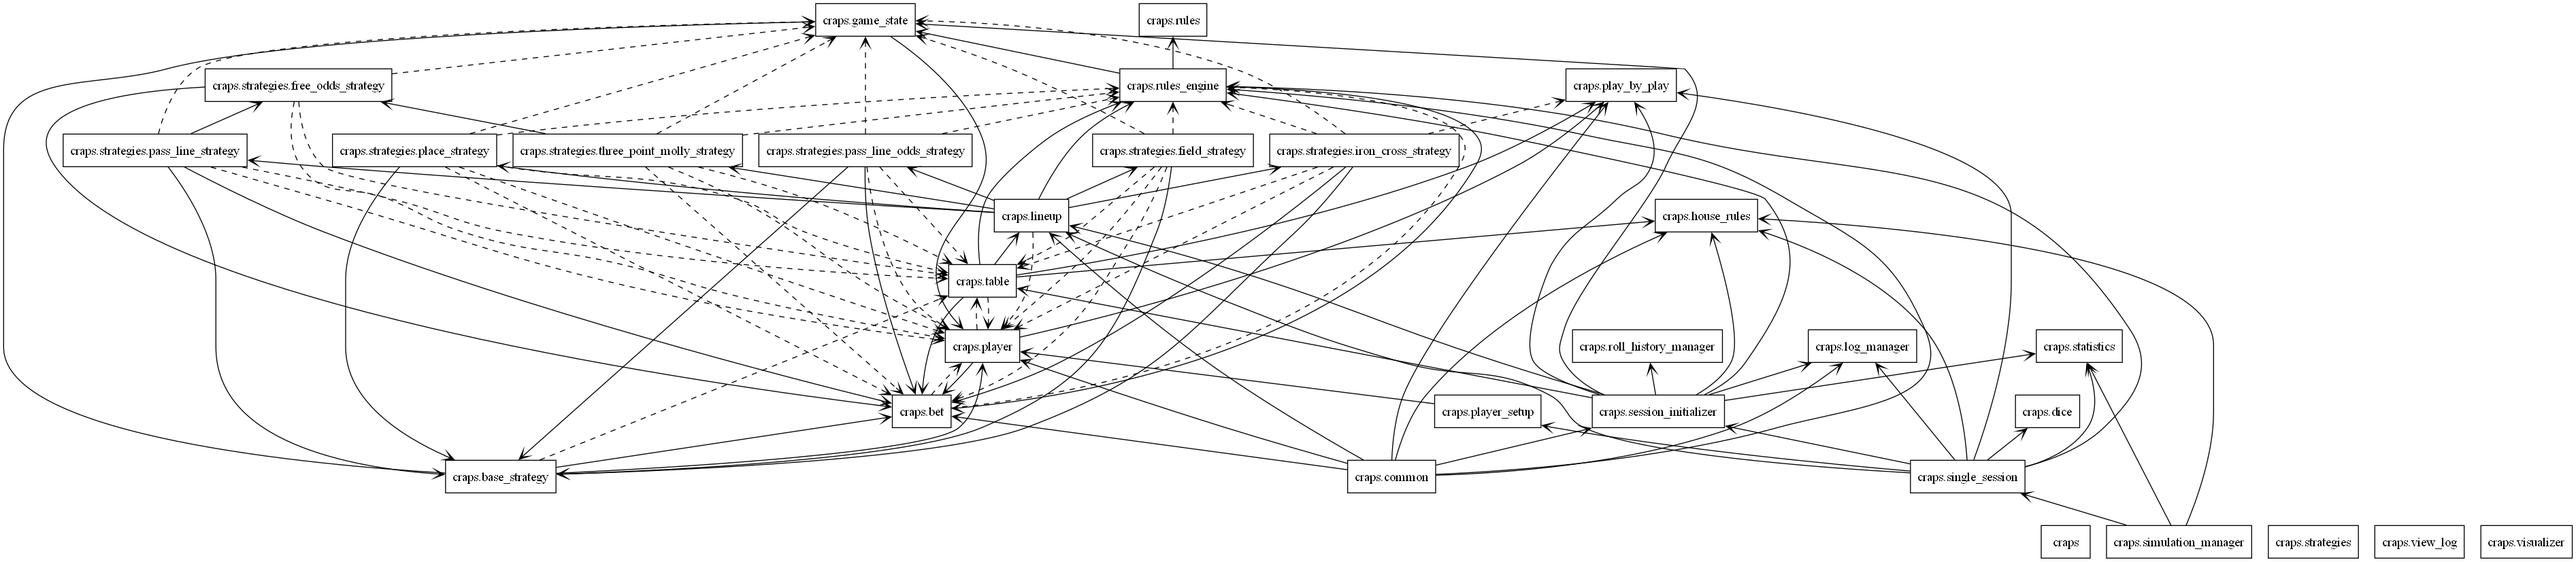
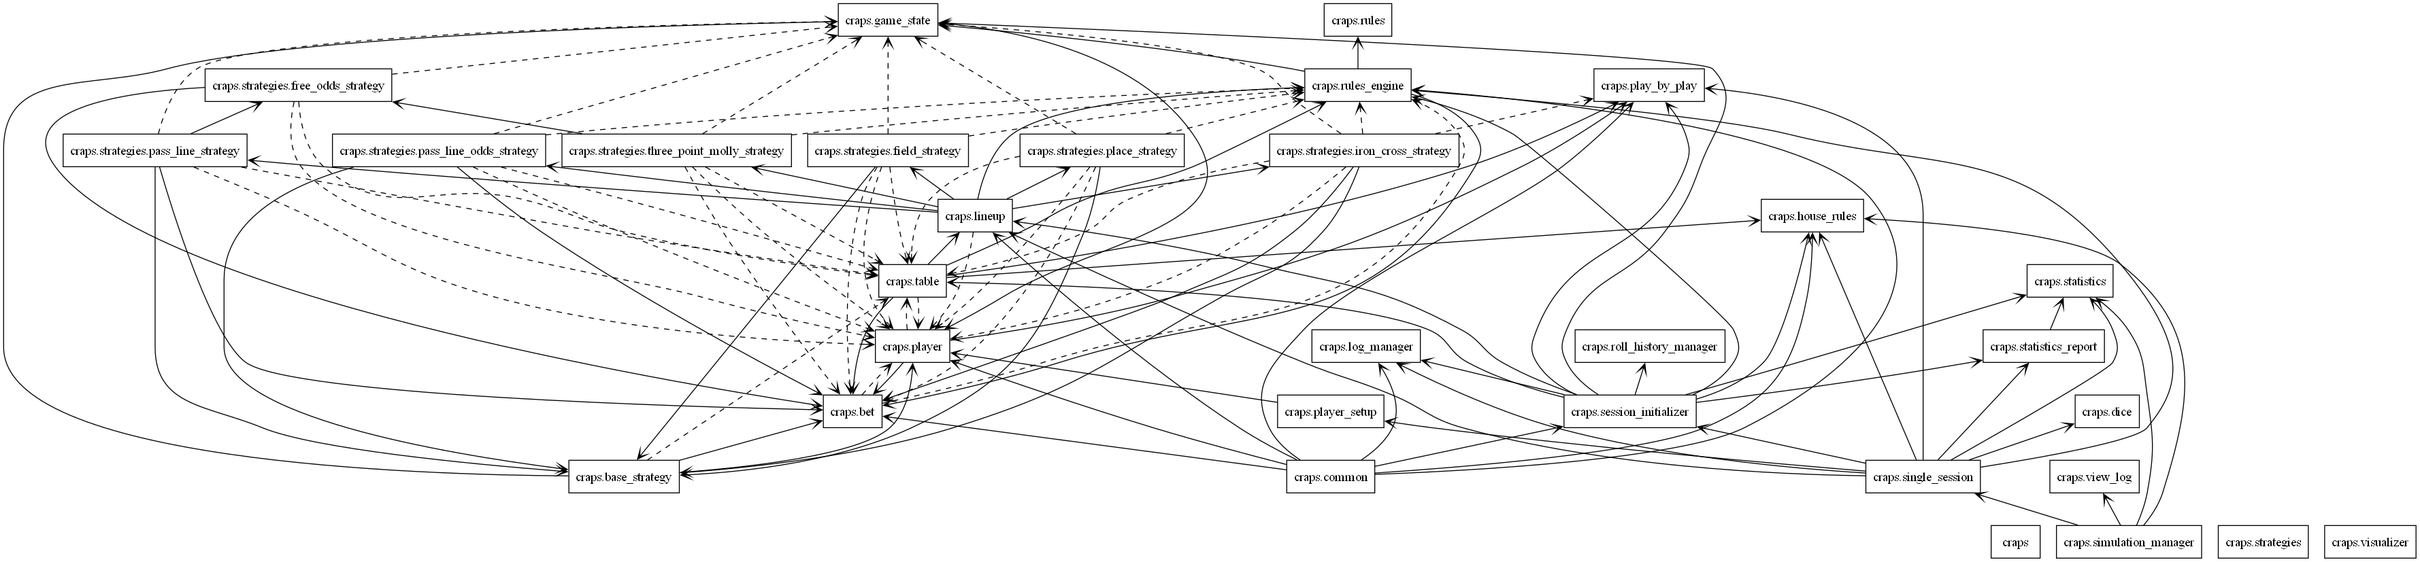
Created Statistics Report for session stats

diff --git a/craps/statistics.py b/craps/statistics.py
@@ -9,6 +9,11 @@ class Statistics:
         self.num_shooters: int = num_shooters
         self.num_players: int = num_players
         self.session_rolls: int = 0
+        self.total_amount_bet: int = 0
+        self.total_amount_won: int = 0
+        self.total_amount_lost: int = 0
+        self.session_highest_bankroll: int = 0
+        self.session_lowest_bankroll: int = 1_000_000  # Arbitrary high value
         self.total_house_win_loss: int = 0
         self.total_player_win_loss: int = 0
         self.player_bankrolls: List[int] = []
@@ -114,11 +119,11 @@ class Statistics:
         """
         if bet.status == "won":
             payout = bet.payout()
-            self.total_house_win_loss -= payout
-            self.total_player_win_loss += payout
+            self.total_amount_won += payout
+            self.total_amount_bet += bet.amount
         elif bet.status == "lost":
-            self.total_house_win_loss += bet.amount
-            self.total_player_win_loss -= bet.amount
+            self.total_amount_lost += bet.amount
+            self.total_amount_bet += bet.amount
     
     def update_player_bankrolls(self, players: List[Any]) -> None:
         """Update player bankrolls and track highest/lowest bankroll."""
@@ -130,6 +135,10 @@ class Statistics:
             if player.name not in self.bankroll_history:
                 self.bankroll_history[player.name] = []
             self.bankroll_history[player.name].append(player.balance)
+            if player.balance > self.session_highest_bankroll:
+                self.session_highest_bankroll = player.balance
+            if player.balance < self.session_lowest_bankroll:
+                self.session_lowest_bankroll = player.balance
 
     def record_seven_out(self) -> None:
         """Record the roll number where a 7-out occurs."""
@@ -170,20 +179,6 @@ class Statistics:
         self.shooter_stats[self.shooter_num]["shooter_rolls"] = shooter.current_roll_count
         self.shooter_stats[self.shooter_num]["rolls_before_7_out"].append(shooter.rolls_before_7_out)
 
-
-    def print_statistics(self) -> None:
-        """Print the simulation statistics."""
-        logging.info("\n=== Simulation Statistics ===")
-        logging.info(f"Table Minimum: ${self.table_minimum}")
-        logging.info(f"Number of Shooters: {self.num_shooters}")
-        logging.info(f"Number of Players: {self.num_players}")
-        logging.info(f"Number of Rolls: {self.session_rolls}")
-        logging.info(f"Total House Win/Loss: ${self.total_house_win_loss}")
-        logging.info(f"Total Player Win/Loss: ${self.total_player_win_loss}")
-        logging.info(f"Player Bankrolls: {self.player_bankrolls}")
-        logging.info(f"Highest Player Bankroll: ${self.highest_bankroll}")
-        logging.info(f"Lowest Player Bankroll: ${self.lowest_bankroll}")
-
     def print_shooter_report(self) -> None:
         """Print a report summarizing each shooter's performance."""
         logging.info("\n=== Shooter Performance Report ===")
@@ -202,3 +197,37 @@ class Statistics:
                 f"{len(rolls_before_7_out)} 7-outs, "
                 f"avg rolls before 7-out: {avg_rolls_before_7_out:.2f})"
             )
+
+    def average_rolls_per_shooter(self) -> float:
+        """Average number of rolls per shooter."""
+        if self.num_shooters == 0:
+            return 0.0
+        return self.session_rolls / self.num_shooters
+
+    def estimated_session_time_minutes(self, rolls_per_hour: int = 90) -> int:
+        """Estimate session duration in minutes."""
+        if rolls_per_hour <= 0:
+            return 0
+        return int((self.session_rolls / rolls_per_hour) * 60)
+
+    def house_take(self) -> int:
+        """Total house profit."""
+        return self.total_amount_lost - self.total_amount_won
+
+    def house_edge(self) -> float:
+        """Effective house edge as a percentage of total amount bet."""
+        if self.total_amount_bet == 0:
+            return 0.0
+        return (self.house_take() / self.total_amount_bet) * 100
+
+    def get_estimated_session_time(self) -> str:
+        total_minutes = round((self.session_rolls / 90) * 60)
+        rounded_minutes = int(round(total_minutes / 15.0) * 15)
+        hours = rounded_minutes // 60
+        minutes = rounded_minutes % 60
+        if hours and minutes:
+            return f"{hours} hr {minutes} min"
+        elif hours:
+            return f"{hours} hr"
+        else:
+            return f"{minutes} min"

diff --git a/craps/statistics_report.py b/craps/statistics_report.py
@@ -1,0 +1,34 @@
+import os
+from craps.statistics import Statistics
+
+class StatisticsReport:
+    def __init__(self, filepath: str = "output/statistics_report.txt") -> None:
+        self.filepath = filepath
+        self.clear_statistics_file()
+
+    def clear_statistics_file(self) -> None:
+        if os.path.exists(self.filepath):
+            os.remove(self.filepath)
+
+    def write(self, line: str) -> None:
+        with open(self.filepath, "a", encoding="utf-8") as f:
+            f.write(line + "\n")
+
+    def write_statistics(self, stats: "Statistics") -> None:
+        self.write(f"=============================================")
+        self.write("📊 Simulation Statistics")
+        self.write(f"📌 Table Minimum: ${stats.table_minimum}")
+        self.write(f"👥 Number of Players: {stats.num_players}")
+        self.write(f"🎯 Number of Shooters: {stats.num_shooters}")
+        self.write(f"🎲 Session Rolls: {stats.session_rolls}")
+        self.write(f"🧮 Rolls per Shooter: {stats.session_rolls / stats.num_shooters:.2f}")
+        self.write(f"⏱ Estimated Session Time: {stats.get_estimated_session_time()}")
+        self.write(f"💸 Total Amount Bet: ${stats.total_amount_bet}")
+        self.write(f"💰 Total Amount Won: ${stats.total_amount_won}")
+        self.write(f"❌ Total Amount Lost: ${stats.total_amount_lost}")
+        self.write(f"🏦 House Take: ${stats.total_amount_lost - stats.total_amount_won}")
+        house_edge = ((stats.total_amount_lost - stats.total_amount_won) / stats.total_amount_bet * 100
+                    if stats.total_amount_bet else 0.0)
+        self.write(f"🎲 House Edge: {house_edge:.2f}%")
+        self.write(f"🔺 Highest Bankroll During Session: ${stats.session_highest_bankroll}")
+        self.write(f"🔻 Lowest Bankroll During Session: ${stats.session_lowest_bankroll}")

diff --git a/craps/simulation_manager.py b/craps/simulation_manager.py
@@ -3,7 +3,7 @@ from typing import List
 from craps.single_session import run_single_session
 from craps.house_rules import HouseRules
 from craps.statistics import Statistics
-
+from craps.view_log import InteractiveLogViewer
 class SimulationManager:
     def __init__(self, house_rules: HouseRules, num_tables: int, num_shooters: int, strategies: List):
         """
@@ -27,5 +27,7 @@ class SimulationManager:
                 stats, play_by_play = run_single_session(self.house_rules, self.strategies, num_shooters=self.num_shooters)
                 self.stats.merge(stats)  # Merge session stats into overall stats
 
-        self.stats.print_statistics()
+        # View the statistics report
+        log_viewer = InteractiveLogViewer()
+        log_viewer.view("output/statistics_report.txt")
         self.stats.print_shooter_report()

diff --git a/craps/single_session.py b/craps/single_session.py
@@ -1,4 +1,5 @@
 from typing import List, Optional, Any
+from config import HOUSE_RULES
 from craps.dice import Dice
 from craps.statistics import Statistics
 from craps.house_rules import HouseRules
@@ -8,7 +9,7 @@ from craps.rules_engine import RulesEngine
 from craps.play_by_play import PlayByPlay
 from craps.player_setup import SetupPlayers
 from craps.lineup import PlayerLineup
-from config import HOUSE_RULES
+from craps.statistics_report import StatisticsReport
 import os
 
 def run_single_session(
@@ -146,4 +147,7 @@ def run_single_session(
 
     # ✅ Return stats and roll history
     stats.roll_history = roll_history
+    statistics_report = StatisticsReport()
+    statistics_report.write_statistics(stats)
+
     return stats, play_by_play

diff --git a/main.py b/main.py
@@ -9,14 +9,16 @@ def main():
     # Run the single session and get the statistics
     stats, play_by_play = run_single_session()
 
-    # Display statistics
-    stats.print_statistics()
-    stats.print_shooter_report()
-    stats.print_player_statistics()
-
     # View the play-by-play log
     log_viewer = InteractiveLogViewer()
     log_viewer.view(play_by_play.play_by_play_file)
+    
+    # View the statistics report
+    log_viewer = InteractiveLogViewer()
+    log_viewer.view("output/statistics_report.txt")
+
+    stats.print_shooter_report()
+    stats.print_player_statistics()
 
     # Visualize player bankrolls (only if there are players and rolls)
     if stats.num_players == 0 or stats.session_rolls == 0:

diff --git a/craps/session_initializer.py b/craps/session_initializer.py
@@ -8,7 +8,7 @@ from craps.rules_engine import RulesEngine
 from craps.statistics import Statistics
 from craps.game_state import GameState
 from craps.lineup import PlayerLineup
-
+from craps.statistics_report import StatisticsReport
 class InitializeSession:
     def __init__(
         self, 
@@ -58,5 +58,8 @@ class InitializeSession:
 
         # Clear the play-by-play file before starting the session
         self.play_by_play.clear_play_by_play_file()
+
+        # Clear the Statistics Report before starting the session        
+        StatisticsReport().clear_statistics_file()
 
         return self.house_rules, table, self.roll_history_manager, self.log_manager, self.play_by_play, stats, game_state
